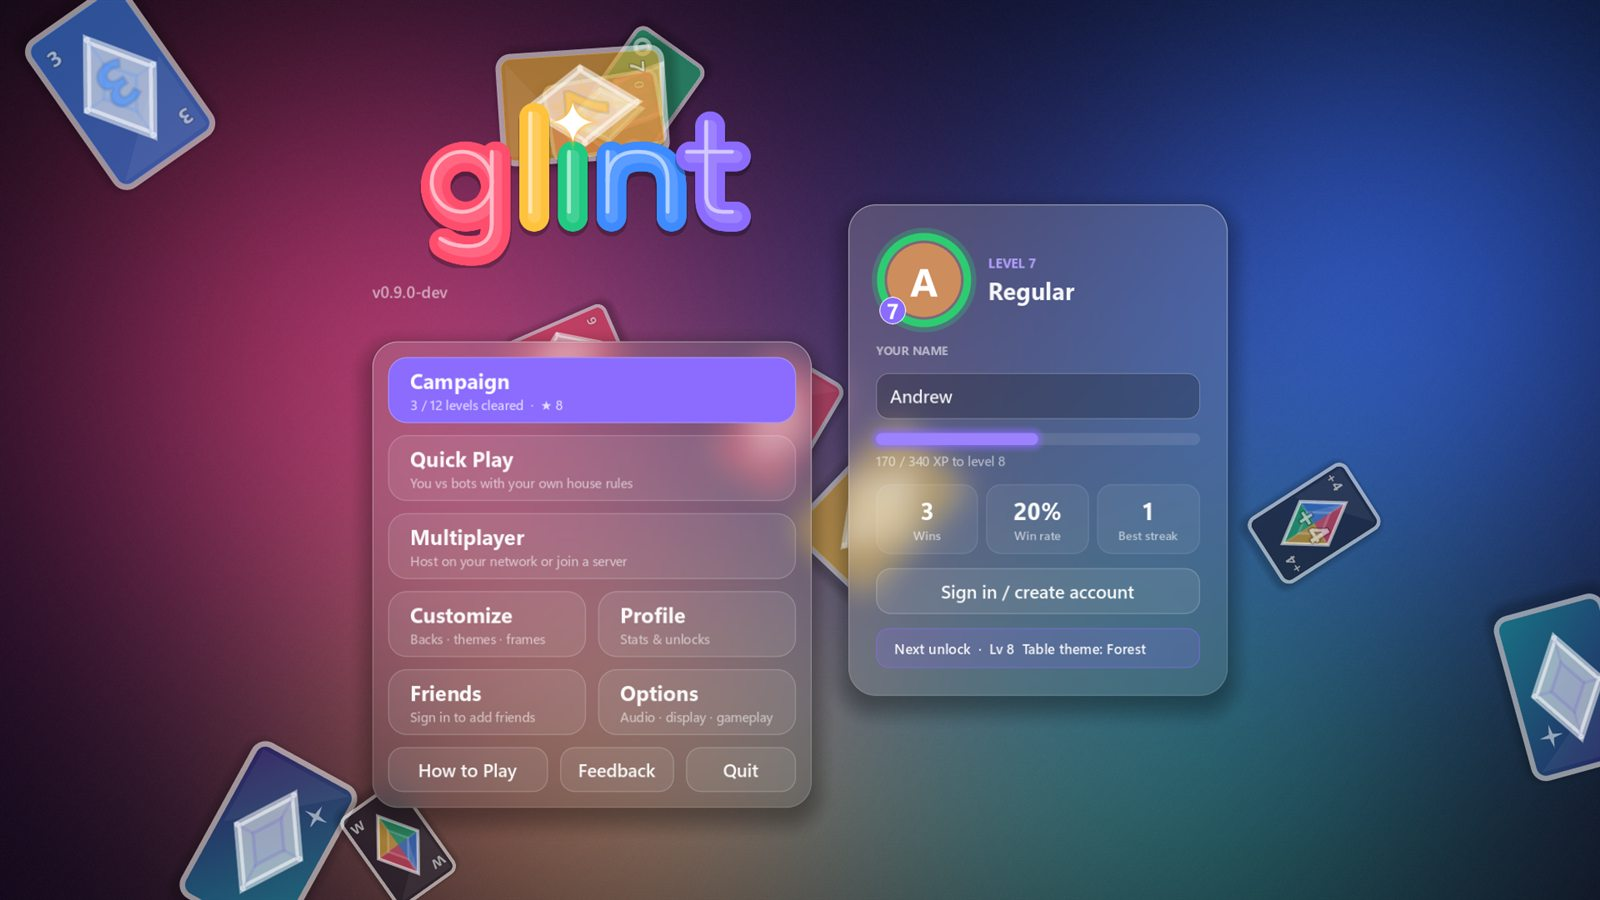
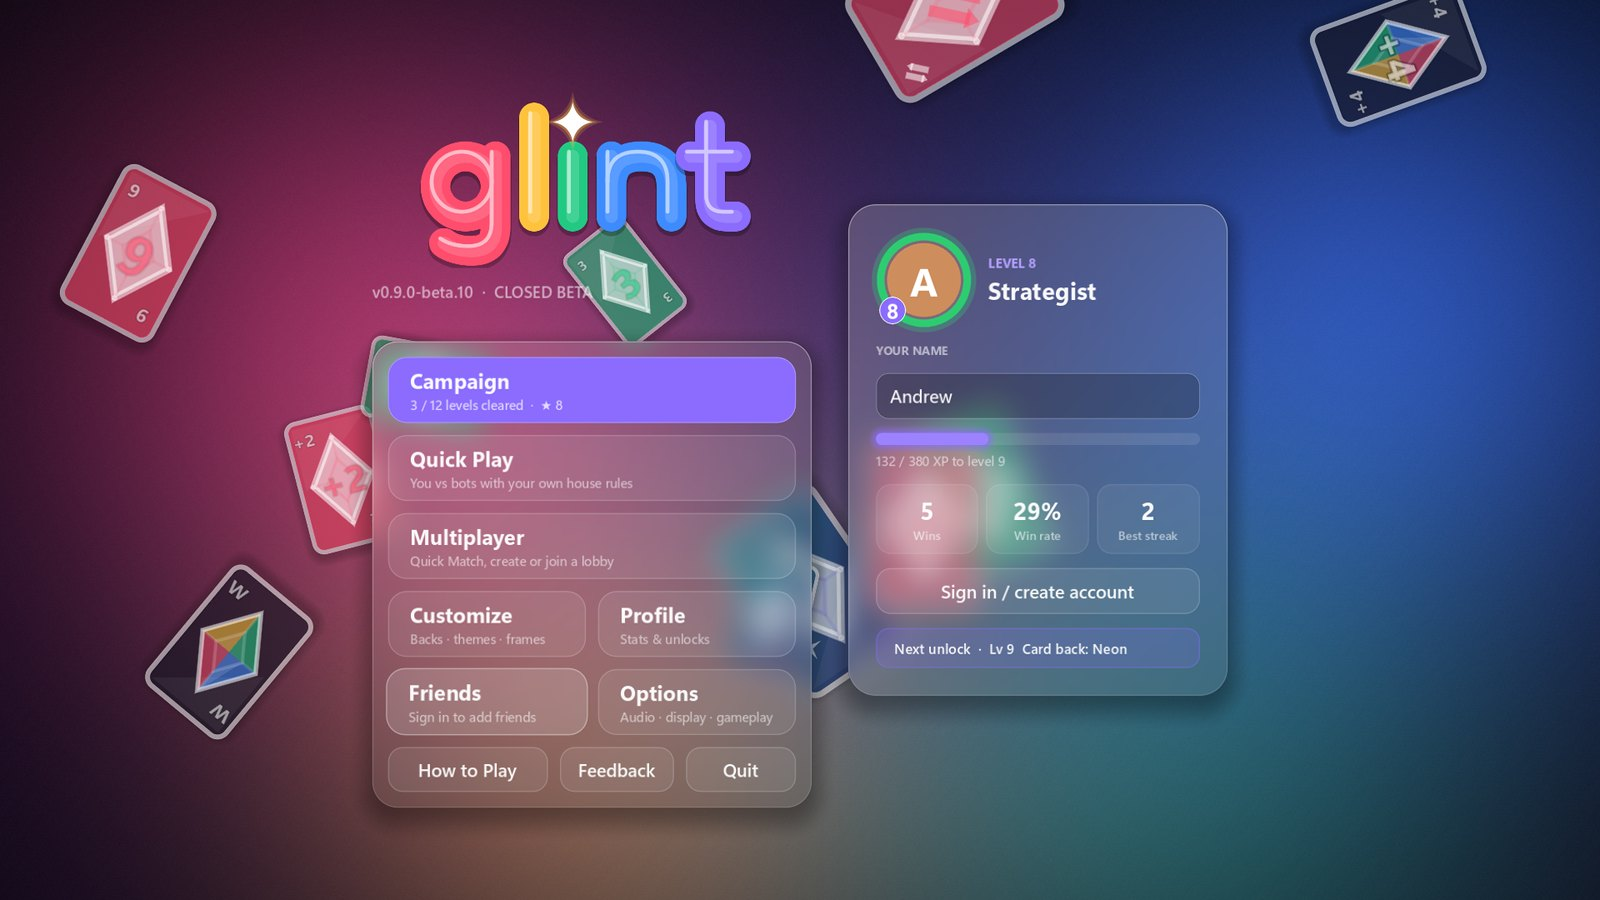
Website: new multiplayer features, lobby/multiplayer/menu screenshots, in-game updates; --shot can save site JPGs

diff --git a/website/index.html b/website/index.html
@@ -4,13 +4,13 @@
   <meta charset="utf-8">
   <meta name="viewport" content="width=device-width, initial-scale=1">
   <title>Glint, the glassy color-matching card game</title>
-  <meta name="description" content="Glint is a fast, glassy color-matching card game. Play solo against bots, take on the 12-level campaign, or play online with friends in private lobbies. Closed beta for Windows.">
+  <meta name="description" content="Glint is a fast, glassy color-matching card game. Play solo against bots, take on the 12-level campaign, or play online with Quick Match and public or private lobbies. Closed beta for Windows.">
   <meta name="theme-color" content="#0b0d22">
   <link rel="icon" type="image/png" href="assets/favicon.png">
   <link rel="apple-touch-icon" href="assets/icon-256.png">
   <meta property="og:type" content="website">
   <meta property="og:title" content="Glint, the glassy color-matching card game">
-  <meta property="og:description" content="Match colors, chain wilds, and call GLINT! Solo, campaign and online play. Closed beta for Windows.">
+  <meta property="og:description" content="Match colors, chain wilds, and call GLINT! Solo, campaign, Quick Match and online lobbies. Closed beta for Windows.">
   <meta property="og:image" content="assets/social-preview.png">
   <meta name="twitter:card" content="summary_large_image">
   <link rel="stylesheet" href="styles.css">
@@ -72,8 +72,8 @@
         </article>
         <article class="feature glass">
           <div class="ico">🌐</div>
-          <h3>Online &amp; private lobbies</h3>
-          <p>Create a room, share the 4-letter code, or invite friends straight from your friends list. Encrypted connections and turn timers.</p>
+          <h3>Quick Match &amp; lobbies</h3>
+          <p>Jump into a Quick Match, or create a public or private lobby and share its 4-letter code. Chat, invite friends, and if your connection drops, you rejoin right where you were.</p>
         </article>
         <article class="feature glass">
           <div class="ico">🗺</div>
@@ -93,7 +93,7 @@
         <article class="feature glass">
           <div class="ico">🎧</div>
           <h3>Made to feel good</h3>
-          <p>Glass UI, smooth animations, original music and sound, plus options for reduced motion, timers and UI scale.</p>
+          <p>Glass UI, smooth animations, original music and sound, and updates that install inside the game in seconds.</p>
         </article>
       </div>
     </section>
@@ -107,21 +107,21 @@
           <img src="assets/shots/table.jpg" alt="A game in progress with four players, the gem cards and a SKIP banner" loading="lazy" width="1600" height="900">
           <span>A round in full swing</span>
         </button>
-        <button class="shot" data-full="assets/shots/menu.jpg" aria-label="Enlarge: main menu">
-          <img src="assets/shots/menu.jpg" alt="The main menu with the profile card" loading="lazy" width="1600" height="900">
-          <span>Main menu</span>
+        <button class="shot" data-full="assets/shots/lobby.jpg" aria-label="Enlarge: lobby">
+          <img src="assets/shots/lobby.jpg" alt="A lobby with players, house rules and chat" loading="lazy" width="1600" height="900">
+          <span>Lobbies &amp; chat</span>
+        </button>
+        <button class="shot" data-full="assets/shots/multiplayer.jpg" aria-label="Enlarge: multiplayer">
+          <img src="assets/shots/multiplayer.jpg" alt="The multiplayer screen with Quick Match, create a lobby and join with a code" loading="lazy" width="1600" height="900">
+          <span>Quick Match &amp; lobbies</span>
         </button>
         <button class="shot" data-full="assets/shots/results.jpg" aria-label="Enlarge: end of round">
           <img src="assets/shots/results.jpg" alt="End of round screen with stars, XP and a level up" loading="lazy" width="1600" height="900">
           <span>Stars, XP &amp; level ups</span>
         </button>
-        <button class="shot" data-full="assets/shots/campaign.jpg" aria-label="Enlarge: campaign">
-          <img src="assets/shots/campaign.jpg" alt="The campaign level select screen" loading="lazy" width="1600" height="900">
-          <span>Campaign</span>
-        </button>
-        <button class="shot" data-full="assets/shots/customize.jpg" aria-label="Enlarge: customize">
-          <img src="assets/shots/customize.jpg" alt="Customizing card backs" loading="lazy" width="1600" height="900">
-          <span>Customize</span>
+        <button class="shot" data-full="assets/shots/menu.jpg" aria-label="Enlarge: main menu">
+          <img src="assets/shots/menu.jpg" alt="The main menu with your level, title and stats" loading="lazy" width="1600" height="900">
+          <span>Levels &amp; titles</span>
         </button>
       </div>
     </section>
@@ -152,7 +152,7 @@
       <div class="beta glass">
         <div>
           <h2>Join the closed beta</h2>
-          <p>Download the installer, then create an account in the game with your invite code to play online. No invite yet? You can still play solo and the whole campaign offline.</p>
+          <p>Download the installer, then create an account in the game with your invite code to play online. No invite yet? You can still play solo and the whole campaign offline. After that, Glint keeps itself up to date.</p>
         </div>
         <a class="btn btn-primary btn-lg" href="download/">Get the beta</a>
       </div>
@@ -167,6 +167,7 @@
         <details class="glass"><summary>Windows says "Windows protected your PC". Is that safe?</summary><p>The beta isn't code-signed yet, so Windows doesn't recognise it. Click <b>More info</b>, then <b>Run anyway</b>. Always download from this website.</p></details>
         <details class="glass"><summary>Do I need an account?</summary><p>Not for singleplayer or the campaign. An account (with a beta invite code) lets you play online, add friends and sync your progress.</p></details>
         <details class="glass"><summary>What data do you collect?</summary><p>For online play: your username, game stats and progress. If you send feedback from the game, that's stored too, along with the game log if you choose to attach it. Nothing is sold or shared.</p></details>
+        <details class="glass"><summary>How do I update?</summary><p>You don't need to. Glint checks for updates when it starts. Press <b>Update now</b> and it downloads just what changed (usually a few MB) and restarts. Your progress and settings are kept. You can also use <b>Options → Check for updates</b>.</p></details>
         <details class="glass"><summary>How do I report a bug?</summary><p>Use <b>Feedback</b> in the main menu. Your game version and log are attached automatically, which helps a lot.</p></details>
       </div>
     </section>

diff --git a/website/download/index.html b/website/download/index.html
@@ -47,7 +47,7 @@
         <li class="glass"><span class="num">1</span><div><h3>Run the installer</h3><p>Open <b id="dl-file">Glint-Setup.exe</b> from your downloads. No admin rights needed.</p></div></li>
         <li class="glass"><span class="num">2</span><div><h3>"Windows protected your PC"?</h3><p>The beta isn't code-signed yet. Click <b>More info</b>, then <b>Run anyway</b>.</p></div></li>
         <li class="glass"><span class="num">3</span><div><h3>Play</h3><p>Launch Glint from the Start menu. Solo and campaign work offline, and online play needs an invite code.</p></div></li>
-        <li class="glass"><span class="num">4</span><div><h3>Updating</h3><p>Install the new version over the old one. Your progress and settings are kept.</p></div></li>
+        <li class="glass"><span class="num">4</span><div><h3>Updating</h3><p>Nothing to download again. Glint updates itself from inside the game, and your progress and settings are kept.</p></div></li>
       </ol>
       <details class="glass dl-verify">
         <summary>Verify the download (SHA-256)</summary>
